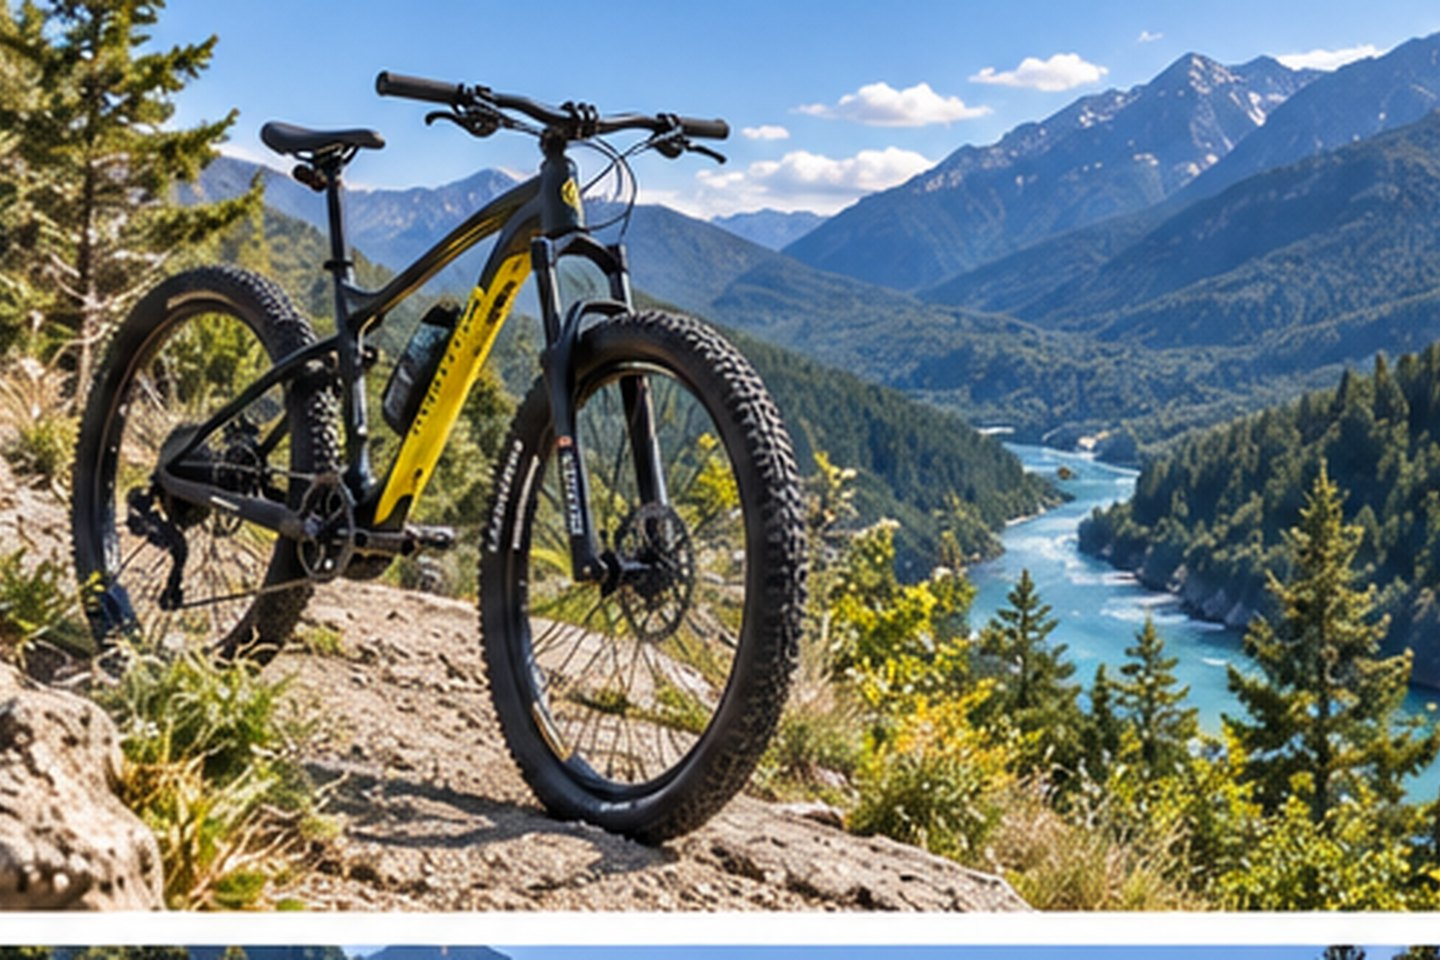
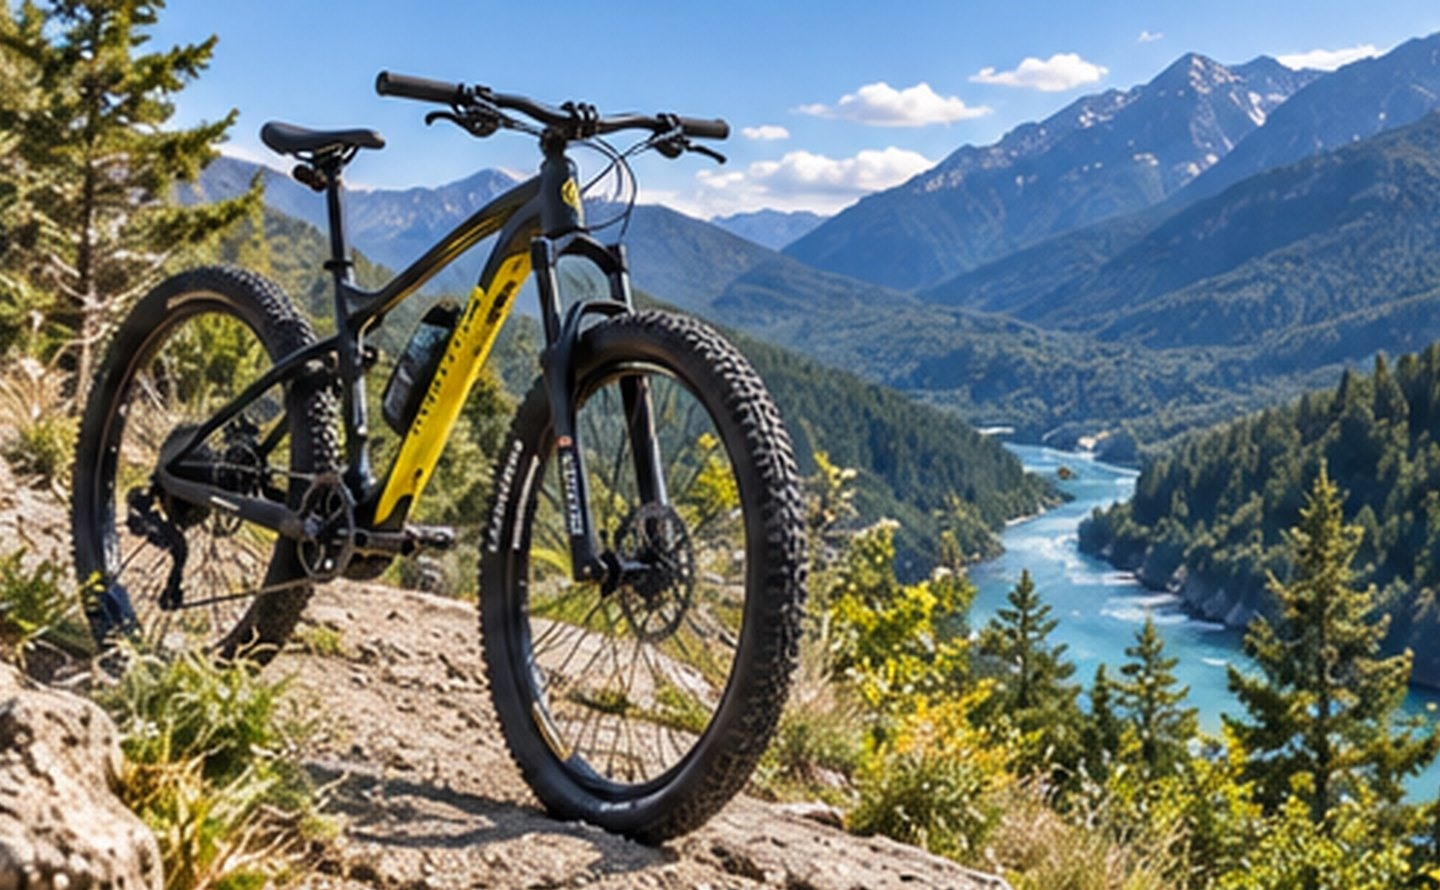
Implement code changes to enhance functionality and improve performance

diff --git a/index.html b/index.html
@@ -26,7 +26,7 @@
     .wrap{width:min(var(--max),calc(100% - 42px));margin:auto}.eyebrow{font-size:.72rem;font-weight:800;letter-spacing:.15em;text-transform:uppercase;color:var(--orange)}
     .section{padding:90px 0}.section h2{font:700 clamp(2.3rem,5vw,4rem)/1.02 var(--serif);letter-spacing:-.01em;text-transform:uppercase;margin:.25em 0}
     .lead{font-size:clamp(1rem,2vw,1.15rem);color:var(--muted);max-width:660px}
-    .btn{display:inline-flex;align-items:center;justify-content:center;gap:.5rem;min-height:50px;padding:0 23px;border:1px solid var(--graphite);border-radius:4px;font-weight:800;font-size:.8rem;letter-spacing:.02em;text-transform:uppercase;background:transparent;cursor:pointer}
+    .btn{display:inline-flex;align-items:center;justify-content:center;gap:.5rem;min-height:50px;padding:0 23px;border:1px solid var(--graphite);border-radius:4px;font-weight:500;font-size:.8rem;letter-spacing:.02em;text-transform:uppercase;background:transparent;cursor:pointer}
     .btn.primary{background:var(--forest);border-color:var(--forest);color:#fff}.btn.orange{background:var(--orange);border-color:var(--orange);color:#fff}.btn.river{background:var(--river);border-color:var(--river);color:#fff}
     .btn:hover{transform:translateY(-2px)}.btn:focus-visible,a:focus-visible,input:focus-visible,select:focus-visible{outline:3px solid var(--orange);outline-offset:3px}
     .actions{display:flex;gap:11px;flex-wrap:wrap;margin-top:24px}.skip{position:absolute;left:-999px}.skip:focus{left:15px;top:10px;background:#fff;padding:10px;z-index:100}
@@ -36,7 +36,7 @@
     .hero{min-height:calc(100vh - 74px);position:relative;display:flex;align-items:flex-end;color:#fff;overflow:hidden}
     .hero-media{position:absolute;inset:0;z-index:0}.hero-media video,.hero-media img{position:absolute;inset:0;width:100%;height:100%;object-fit:cover;will-change:transform}
     .hero-media:after{content:"";position:absolute;inset:0;background:linear-gradient(0deg,rgba(43,47,44,.87),rgba(43,47,44,.3) 55%,rgba(43,47,44,.06))}
-    .hero-content{position:relative;z-index:1;padding:78px 0 60px;max-width:660px}.hero .eyebrow{color:#f0b077}
+    .hero-content{position:relative;z-index:1;padding:78px 0 60px;max-width:660px}.hero .eyebrow{color:#f0b077;text-shadow:0 1px 3px rgba(0,0,0,.6),0 1px 12px rgba(0,0,0,.4)}
     .hero h1{font:800 clamp(2.9rem,7vw,5.6rem)/.95 var(--serif);letter-spacing:.01em;margin:.2em 0}.hero h2{font:700 clamp(1.3rem,2.3vw,1.9rem)/1.2 var(--serif);text-transform:uppercase;margin:0 0 14px;max-width:540px}
     .hero p{color:#eef0ea;max-width:520px}.hero-address{display:flex;align-items:center;gap:18px;border-top:1px solid rgba(255,255,255,.28);padding-top:20px;margin-top:22px;font-size:.9rem}
     .hero-address a{color:#f0b077;font-weight:800}.image-note{position:absolute;right:16px;bottom:16px;z-index:2;background:rgba(43,47,44,.8);padding:6px 10px;border-radius:4px;font-size:.64rem}
@@ -73,7 +73,7 @@
     .footer-brand small{display:block;color:#8b9084;margin-top:6px}.footer-col b{display:block;color:#fff;margin-bottom:9px;font-size:.83rem}.footer-col a{display:block;color:#a3a898;margin:6px 0;font-size:.83rem}
     .footer-bottom{border-top:1px solid rgba(255,255,255,.12);margin-top:34px;padding-top:18px;display:flex;justify-content:space-between;color:#7d8277;font-size:.75rem}.mobile-sticky{display:none}
     .reveal{opacity:0;transform:translateY(28px);transition:opacity .9s cubic-bezier(.16,.8,.3,1),transform .9s cubic-bezier(.16,.8,.3,1)}.reveal.visible{opacity:1;transform:none}.reveal-item{opacity:0;transform:translateY(28px);transition:opacity .8s cubic-bezier(.16,.8,.3,1),transform .8s cubic-bezier(.16,.8,.3,1)}.reveal-group.visible .reveal-item{opacity:1;transform:none}.reveal-group.visible .reveal-item:nth-child(1){transition-delay:0s}.reveal-group.visible .reveal-item:nth-child(2){transition-delay:.09s}.reveal-group.visible .reveal-item:nth-child(3){transition-delay:.18s}.reveal-group.visible .reveal-item:nth-child(4){transition-delay:.27s}.reveal-group.visible .reveal-item:nth-child(5){transition-delay:.36s}.reveal-group.visible .reveal-item:nth-child(6){transition-delay:.45s}.reveal-group.visible .reveal-item:nth-child(7){transition-delay:.54s}.reveal-group.visible .reveal-item:nth-child(8){transition-delay:.63s}
-    .room,.activity-card,.gallery figure{overflow:hidden}.room img,.activity-card img,.gallery figure img{transition:transform 1.1s cubic-bezier(.16,.8,.3,1)}.room:hover img,.activity-card:hover img,.gallery figure:hover img{transform:scale(1.045)}
+    .room,.activity-card,.gallery figure{overflow:hidden}.room img,.activity-card img{transition:transform 1.1s cubic-bezier(.16,.8,.3,1)}.room:hover img,.activity-card:hover img{transform:scale(1.045)}
     @media(max-width:1040px){.nav,.header-in>.phone,.header-in>.btn{display:none}
       .facts-grid{grid-template-columns:repeat(3,1fr)}.selector-grid{grid-template-columns:1fr 1fr}.about-grid,.boat-grid,.conference-grid,.location-grid{grid-template-columns:1fr}.activities-grid{grid-template-columns:1fr 1fr}
       .weekend-grid{grid-template-columns:1fr}.footer-grid{grid-template-columns:1fr 1fr 1fr}}
@@ -81,7 +81,7 @@
       .facts-grid{grid-template-columns:1fr 1fr}.fact{padding:16px 6px}.selector-grid,.room-grid,.activities-grid{grid-template-columns:1fr}
       .gallery{grid-template-columns:1fr;grid-template-rows:auto}.gallery figure,.gallery figure:first-child{grid-column:auto;height:210px}.footer-grid{grid-template-columns:1fr 1fr}.footer-bottom{flex-direction:column;gap:7px}
       .mobile-sticky{display:grid;grid-template-columns:1fr 1fr 1fr;position:fixed;bottom:0;left:0;right:0;background:#fff;padding:9px;gap:6px;z-index:40;border-top:1px solid var(--line)}
-      .mobile-sticky a{text-align:center;padding:11px 5px;font-weight:800;font-size:.74rem}.mobile-sticky a:nth-child(1){background:var(--forest);color:#fff}.mobile-sticky a:nth-child(2){background:var(--orange);color:#fff}.mobile-sticky a:nth-child(3){background:var(--offwhite);color:var(--graphite)}
+      .mobile-sticky a{text-align:center;padding:11px 5px;font-weight:500;font-size:.74rem}.mobile-sticky a:nth-child(1){background:var(--forest);color:#fff}.mobile-sticky a:nth-child(2){background:var(--orange);color:#fff}.mobile-sticky a:nth-child(3){background:var(--offwhite);color:var(--graphite)}
       .contact-card,.map-card{padding:20px}.contact-card dd{word-break:break-word}}
     @media(prefers-reduced-motion:reduce){html{scroll-behavior:auto}.reveal,.reveal-item{opacity:1;transform:none;transition:none}.btn{transition:none}.hero-media{transform:none!important}.room img,.activity-card img,.gallery figure img{transition:none}}
   </style>
@@ -99,11 +99,11 @@
     <section class="section activities" id="activities"><div class="wrap"><span class="eyebrow">Досліджуйте</span><h2>Досліджуйте Кам’янець не тільки пішки</h2><p class="lead">Активні екскурсії: головний диференціатор KARTA F.M. Маршрути, складність, спорядження, вік учасників і ціни наразі не підтверджені для жодної з активностей. Ми не пишемо «для всіх рівнів» без даних.</p><div class="activities-grid reveal-group"><article class="activity-card reveal-item"><img src="images/bike.jpg" alt="Велоекскурсія, ілюстративне зображення"><div><h3>Велосипед</h3><p>Кам’янець на велосипеді. Свої чи орендні велосипеди, тривалість і складність уточнюйте окремо.</p></div></article><article class="activity-card reveal-item"><img src="images/kayak.jpg" alt="Байдаркова екскурсія, ілюстративне зображення"><div><h3>Байдарка</h3><p>Маршрут, спорядження, рятувальні жилети та вікові обмеження наразі не підтверджені.</p></div></article><article class="activity-card reveal-item"><img src="images/rafting.jpg" alt="Рафтинг, ілюстративне зображення"><div><h3>Рафтинг</h3><p>Локація, складність, інструктор і спорядження потребують окремого підтвердження перед бронюванням.</p></div></article></div><a class="btn orange" style="margin-top:30px" href="#booking">Запитати активність</a></div></section>
     <section class="section boat" id="boat"><div class="wrap boat-grid"><div class="reveal"><span class="eyebrow">Вода</span><h2>Спокійніший маршрут по воді</h2><p class="lead">Екскурсії на човнах підтверджені окремо від байдарок. Тип човна, маршрут і місткість наразі не уточнені. Ми не називаємо це моторним човном чи приватним круїзом без підтвердження.</p><a class="btn" style="background:#fff;color:var(--river);border-color:#fff" href="#booking">Дізнатися про човни</a></div><div class="reveal" style="border-radius:8px;overflow:hidden;min-height:280px"><img src="images/boat.jpg" alt="Човнова екскурсія, ілюстративне зображення"></div></div></section>
     <section class="section weekend"><div class="wrap"><span class="eyebrow">Активні вихідні</span><h2>Один зі способів провести вихідні</h2><p class="lead">Це ідея сценарію, а не готовий комерційний пакет.</p><div class="weekend-grid reveal-group"><article class="weekend-step reveal-item"><b>День 1</b><span>Заїзд і велоекскурсія.</span></article><article class="weekend-step reveal-item"><b>День 2</b><span>Вода: байдарка чи човен.</span></article><article class="weekend-step reveal-item"><b>Вечір</b><span>Відпочинок у номері.</span></article></div></div></section>
-    <section class="section conference" id="conference"><div class="wrap conference-grid"><div class="reveal"><span class="eyebrow">Зустріч</span><h2>Місце для зустрічей</h2><p class="lead">Джерело підтверджує конференц-зал. Місткість, обладнання (проєктор, екран, звук, мікрофон) та вартість наразі не підтверджені.</p><a class="btn primary" href="#booking">Запитати конференц-зал</a><div class="combo-note"><strong>Meet + Explore:</strong> робоча зустріч можна потенційно поєднати з активністю (велосипед, байдарка), але конкретний team-building пакет ще не сформовано.</div></div><div></div></div></section>
-    <section class="section location" id="location"><div class="wrap location-grid"><div class="map-card reveal"><div><span class="eyebrow">Локація</span><h2 style="font:700 clamp(1.9rem,4vw,2.7rem)/1.05 var(--serif);text-transform:uppercase;margin:.2em 0">KARTA F.M. у Кам’янці-Подільському</h2></div><div><p>вул. Індустріальна, 3</p><a class="btn orange" href="https://www.google.com/maps/search/?api=1&query=KARTA+F.M.,+вул.+Індустріальна+3,+Кам’янець-Подільський" target="_blank" rel="noopener">Відкрити у Google Maps ↗</a></div></div><div class="contact-card reveal"><span class="eyebrow">Контакти</span><h2 style="font:700 clamp(1.9rem,4vw,2.7rem)/1.05 var(--serif);text-transform:uppercase;margin:.2em 0">KARTA F.M.</h2><a class="big" href="tel:+380673130873">+38 067 313 08 73</a><dl><dt>Адреса</dt><dd>вул. Індустріальна, 3, Кам’янець-Подільський</dd><dt>Email / сайт / Instagram</dt><dd>Не підтверджено</dd><dt>Активності</dt><dd>Точка старту екскурсій, сезонність і залежність від погоди наразі не підтверджені</dd></dl></div></div></section>
+    <section class="section conference" id="conference"><div class="wrap conference-grid"><div class="reveal"><span class="eyebrow">Зустріч</span><h2>Місце для зустрічей</h2><p class="lead">Джерело підтверджує конференц-зал. Місткість, обладнання (проєктор, екран, звук, мікрофон) та вартість наразі не підтверджені.</p><a class="btn primary" href="#booking">Запитати конференц-зал</a><div class="combo-note"><strong>Meet + Explore:</strong> робоча зустріч можна потенційно поєднати з активністю (велосипед, байдарка), але конкретний team-building пакет ще не сформовано.</div></div><div class="reveal" style="border-radius:8px;overflow:hidden;min-height:280px"><img src="images/conference.jpg" alt="Конференц-зал, ілюстративне зображення"></div></div></section>
+    <section class="section location" id="location"><div class="wrap location-grid"><div class="map-card reveal" style="padding:0;overflow:hidden"><iframe src="https://www.google.com/maps?q=KARTA%20F.M.%2C%20вул.%20Індустріальна%2C%203%2C%20Кам%E2%80%99янець-Подільський&output=embed" style="border:0;width:100%;height:100%;min-height:320px" loading="lazy" referrerpolicy="no-referrer-when-downgrade" title="Карта: KARTA F.M., вул. Індустріальна, 3, Кам’янець-Подільський"></iframe></div><div class="contact-card reveal"><span class="eyebrow">Контакти</span><h2 style="font:700 clamp(1.9rem,4vw,2.7rem)/1.05 var(--serif);text-transform:uppercase;margin:.2em 0">KARTA F.M.</h2><a class="big" href="tel:+380673130873">+38 067 313 08 73</a><dl><dt>Адреса</dt><dd>вул. Індустріальна, 3, Кам’янець-Подільський</dd><dt>Email / сайт / Instagram</dt><dd>Не підтверджено</dd><dt>Активності</dt><dd>Точка старту екскурсій, сезонність і залежність від погоди наразі не підтверджені</dd></dl></div></div></section>
     <section class="section" id="gallery"><div class="wrap"><span class="eyebrow">Галерея</span><h2>KARTA F.M. у русі</h2><div class="gallery reveal-group"><figure class="reveal-item"><img src="images/hero.jpg" alt="Ілюстративний вигляд бази" loading="lazy"></figure><figure class="reveal-item"><img src="images/bike.jpg" alt="Ілюстративна велоекскурсія" loading="lazy"></figure><figure class="reveal-item"><img src="images/kayak.jpg" alt="Ілюстративна байдаркова екскурсія" loading="lazy"></figure><figure class="reveal-item"><img src="images/rafting.jpg" alt="Ілюстративний рафтинг" loading="lazy"></figure></div><p class="gallery-note">Зображення поки ілюстративні. Реальні фото проживання, велоекскурсій, байдарок, човнів, рафтингу та конференц-залу буде додано після зйомки на місці.</p></div></section>
     <section class="section reviews"><div class="wrap"><span class="eyebrow">Відгуки</span><h2>Чесно про відгуки</h2><div class="reviews-box">Підтвердженого рейтингу чи кількості відгуків для KARTA F.M. наразі немає. Сторінка не показує вигадану чи застарілу оцінку. Реальні відгуки з’являться тут після перевірки.</div></div></section>
-    <section class="section booking" id="booking"><div class="wrap"><span class="eyebrow">Контакти</span><h2>Зв'яжіться з нами</h2><p class="lead">Зателефонуйте, щоб спланувати поїздку, забронювати проживання чи уточнити активність.</p><div class="contact-card" style="max-width:520px;margin:40px auto 0;text-align:center"><span class="eyebrow">KARTA F.M.</span><a class="big" href="tel:+380673130873">+38 067 313 08 73</a><dl><dt>Адреса</dt><dd>вул. Індустріальна, 3, Кам'янець-Подільський</dd></dl><a class="btn orange" href="https://www.google.com/maps/search/?api=1&query=KARTA+F.M.,+вул.+Індустріальна+3,+Кам'янець-Подільський" target="_blank" rel="noopener">Відкрити у Google Maps</a></div></div></section>
+    <section class="section booking" id="booking"><div class="wrap" style="text-align:center"><span class="eyebrow">Контакти</span><h2>Зв'яжіться з нами</h2><p class="lead" style="margin-left:auto;margin-right:auto">Зателефонуйте, щоб спланувати поїздку, забронювати проживання чи уточнити активність.</p><div class="contact-card" style="max-width:520px;margin:40px auto 0;text-align:center"><span class="eyebrow">KARTA F.M.</span><a class="big" href="tel:+380673130873">+38 067 313 08 73</a><dl><dt>Адреса</dt><dd>вул. Індустріальна, 3, Кам'янець-Подільський</dd></dl><a class="btn orange" href="https://www.google.com/maps/search/?api=1&query=KARTA+F.M.,+вул.+Індустріальна+3,+Кам'янець-Подільський" target="_blank" rel="noopener">Відкрити у Google Maps</a></div></div></section>
     <section class="final" role="img" aria-label="KARTA F.M., ілюстративне зображення"><div class="reveal"><span class="eyebrow" style="color:#f0b077">Проживання · Зустрічі · Активності</span><h2>Наступний маршрут починається тут</h2><p>Проживання, конференц-зал та активні пригоди у KARTA F.M.</p><div class="actions"><a class="btn primary" href="#booking">Спланувати поїздку</a><a class="btn orange" href="#activities">Обрати активність</a></div><small>+38 067 313 08 73</small></div></section>
   </main>
   <footer><div class="wrap"><div class="footer-grid"><div class="footer-brand"><strong>KARTA F.M.</strong><small>Проживання · Зустрічі · Активності</small></div><div class="footer-col"><b>Stay</b><a href="#stay">Номери</a><a href="#booking">Бронювання</a></div><div class="footer-col"><b>Explore</b><a href="#activities">Велосипеди</a><a href="#activities">Байдарки</a><a href="#boat">Човни</a><a href="#activities">Рафтинг</a></div><div class="footer-col"><b>Meet</b><a href="#conference">Конференц-зал</a><a href="#booking">Груповий запит</a></div><div class="footer-col"><b>Information</b><a href="#gallery">Gallery</a><a href="#location">Map</a><a href="#location">Contacts</a></div></div><div class="footer-bottom"><span>вул. Індустріальна, 3 · Кам’янець-Подільський</span><span>+38 067 313 08 73</span></div></div></footer>
